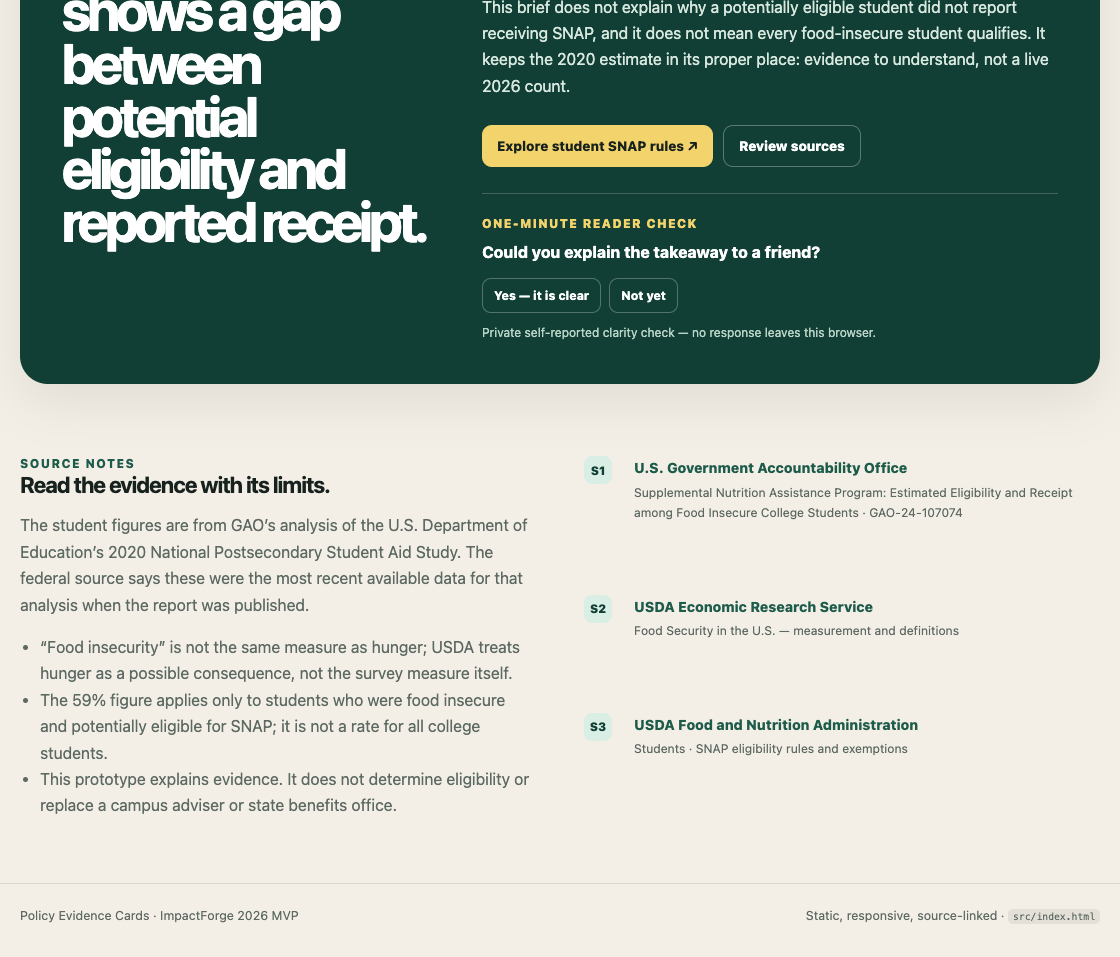
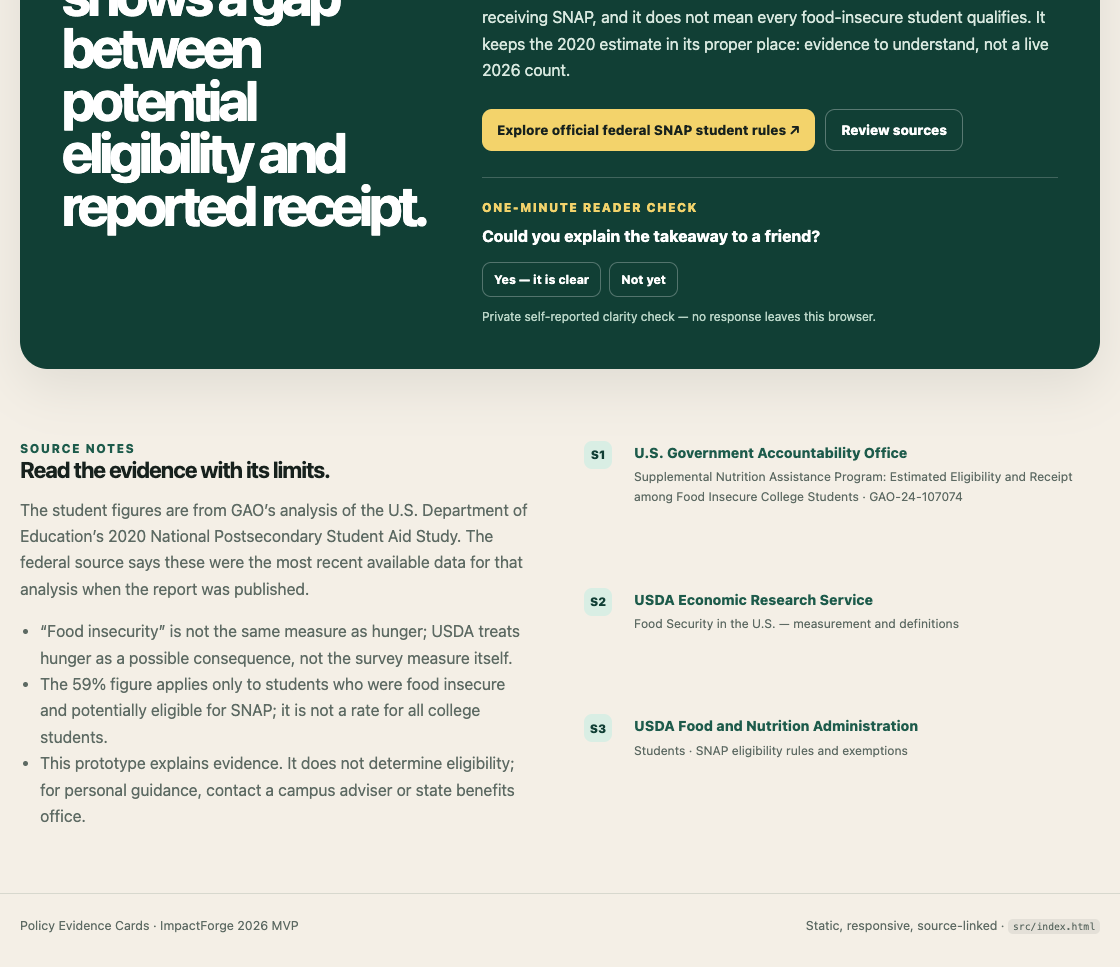
Refine mobile usability and evidence scope

diff --git a/src/index.html b/src/index.html
@@ -38,10 +38,14 @@
     }
     .topbar-inner { display: flex; align-items: center; justify-content: space-between; min-height: 68px; gap: 20px; }
     .brand { display: inline-flex; align-items: center; gap: 10px; font-weight: 800; letter-spacing: -.02em; text-decoration: none; }
+    .brand:focus-visible { outline: 3px solid var(--orange); outline-offset: 4px; border-radius: 12px; }
     .brand-mark { display: grid; place-items: center; width: 30px; height: 30px; border-radius: 9px; background: var(--green); color: white; font-size: .82rem; }
     .topnav { display: flex; gap: 20px; color: var(--muted); font-size: .86rem; }
     .topnav a { text-decoration: none; }
     .topnav a:hover, .topnav a:focus-visible { color: var(--green); }
+    .mobile-jump { display: none; }
+    .mobile-jump a { flex: 1; padding: 8px 10px; border: 1px solid var(--line); border-radius: 10px; color: var(--green); font-size: .75rem; font-weight: 800; text-align: center; text-decoration: none; }
+    .mobile-jump a:focus-visible { outline: 3px solid var(--orange); outline-offset: 3px; }
 
     .hero { padding: 72px 0 52px; display: grid; grid-template-columns: 1.15fr .85fr; align-items: end; gap: 56px; }
     .eyebrow, .kicker { color: var(--green); font-size: .75rem; font-weight: 850; letter-spacing: .12em; text-transform: uppercase; }
@@ -69,7 +73,7 @@
     .evidence-card h3 { max-width: 280px; margin: 50px 0 12px; font-size: 1.55rem; line-height: 1.06; letter-spacing: -.04em; }
     .stat { display: flex; align-items: baseline; gap: 10px; margin: 0 0 12px; color: var(--green); }
     .stat strong { font-size: clamp(3.2rem, 6vw, 5.2rem); line-height: .9; letter-spacing: -.09em; }
-    .stat span { max-width: 120px; color: var(--muted); font-size: .82rem; line-height: 1.2; }
+    .stat span { max-width: 180px; flex: 1; color: var(--muted); font-size: .82rem; line-height: 1.2; }
     .evidence-card .body { max-width: 310px; color: var(--muted); line-height: 1.56; }
     .card-footer { position: relative; z-index: 1; display: block; margin-top: 22px; padding-top: 22px; border-top: 1px solid var(--line); }
     .year { color: var(--muted); font-size: .75rem; }
@@ -116,6 +120,9 @@
     .feedback-button { padding: 9px 11px; border: 1px solid rgba(255,255,255,.28); border-radius: 9px; background: transparent; color: white; font: inherit; font-size: .76rem; font-weight: 750; cursor: pointer; }
     .feedback-button:hover, .feedback-button.is-active { border-color: var(--yellow); background: rgba(243, 211, 107, .14); }
     .feedback-status { min-height: 1.3em; margin: 10px 0 0 !important; color: #b9d5c7 !important; font-size: .75rem; }
+    .feedback-recovery { display: flex; flex-wrap: wrap; gap: 12px; margin: 10px 0 0 !important; }
+    .feedback-recovery a { color: white; font-size: .75rem; font-weight: 800; text-underline-offset: 3px; }
+    [hidden] { display: none !important; }
 
     .notes { display: grid; grid-template-columns: 1fr 1fr; gap: 48px; padding: 72px 0 64px; }
     .notes h2 { margin-bottom: 14px; font-size: 1.4rem; letter-spacing: -.04em; }
@@ -145,6 +152,7 @@
     @media (max-width: 560px) {
       .wrap { width: min(100% - 28px, 1120px); }
       .topnav { display: none; }
+      .mobile-jump { display: flex; gap: 8px; padding-top: 10px; padding-bottom: 12px; }
       h1 { font-size: clamp(3.2rem, 18vw, 5.8rem); }
       .hero { padding: 42px 0 38px; }
       .section-head { display: block; }
@@ -174,6 +182,10 @@
         <a href="#sources">Sources</a>
       </nav>
     </div>
+    <nav class="mobile-jump wrap" aria-label="Mobile quick links">
+      <a href="#next-step">Get help</a>
+      <a href="#sources">Sources</a>
+    </nav>
   </header>
 
   <main id="top" class="wrap">
@@ -221,7 +233,7 @@
         <article class="evidence-card" id="evidence-gap" data-card-id="03" data-label="Policy gap" data-metric="59%" data-supporting-value="did not report receiving SNAP" data-year="2020" data-source-id="S1" data-policy-source-id="S3" data-claim="Of food-insecure students who were potentially eligible for SNAP, 59 percent did not report receiving benefits.">
           <div class="card-top"><span class="card-number">03 / POLICY GAP</span><span class="card-type">What can help?</span></div>
           <h3>Potential eligibility is not reported receipt.</h3>
-          <div class="stat"><strong>59%</strong><span>did not report receiving SNAP</span></div>
+          <div class="stat"><strong>59%</strong><span>of food-insecure students potentially eligible for SNAP did not report receiving benefits</span></div>
           <p class="body">Among potentially SNAP-eligible food-insecure students, 59% did not report receiving benefits. USDA lists student exemptions such as 20 hours of paid work or work-study.</p>
           <div class="card-footer"><span class="year">U.S. · 2020 data</span><div class="card-sources"><a class="card-link" href="https://www.gao.gov/products/gao-24-107074" target="_blank" rel="noreferrer">Read GAO</a><a class="card-link" href="https://www.fna.usda.gov/snap/students" target="_blank" rel="noreferrer">Check USDA rules</a></div></div>
         </article>
@@ -263,7 +275,7 @@
         <p class="takeaway-lead">The next question is practical: how can a student check the current rules and find a trustworthy next step?</p>
         <p>This brief does not explain why a potentially eligible student did not report receiving SNAP, and it does not mean every food-insecure student qualifies. It keeps the 2020 estimate in its proper place: evidence to understand, not a live 2026 count.</p>
         <div class="takeaway-actions">
-          <a class="button button-primary" href="https://www.fna.usda.gov/snap/students" target="_blank" rel="noreferrer">Explore student SNAP rules ↗</a>
+          <a class="button button-primary" href="https://www.fna.usda.gov/snap/students" target="_blank" rel="noreferrer">Explore official federal SNAP student rules ↗</a>
           <a class="button button-secondary" href="#sources">Review sources</a>
         </div>
         <div class="reader-check" aria-labelledby="reader-check-title">
@@ -274,6 +286,7 @@
             <button class="feedback-button" type="button" data-feedback="unclear" aria-pressed="false">Not yet</button>
           </div>
           <p id="feedback-status" class="feedback-status" role="status">Private self-reported clarity check — no response leaves this browser.</p>
+          <p id="feedback-recovery" class="feedback-recovery" hidden><a href="#evidence-severity">Review the definition</a><a href="#sources">Open the sources</a></p>
         </div>
       </div>
     </section>
@@ -286,7 +299,7 @@
         <ul>
           <li>“Food insecurity” is not the same measure as hunger; USDA treats hunger as a possible consequence, not the survey measure itself.</li>
           <li>The 59% figure applies only to students who were food insecure and potentially eligible for SNAP; it is not a rate for all college students.</li>
-          <li>This prototype explains evidence. It does not determine eligibility or replace a campus adviser or state benefits office.</li>
+          <li>This prototype explains evidence. It does not determine eligibility; for personal guidance, contact a campus adviser or state benefits office.</li>
         </ul>
       </div>
       <div class="source-list" aria-label="Linked sources">
@@ -329,9 +342,9 @@
       },
       help: {
         label: 'Start with the official rules',
-        copy: 'Check the current USDA student exemptions. The card is a signpost, not an eligibility decision.',
+        copy: 'Check the current official federal SNAP student rules and exemptions. The card is a signpost, not an eligibility decision. For personal guidance, contact a campus adviser or state benefits office.',
         href: 'https://www.fna.usda.gov/snap/students',
-        link: 'Open USDA student rules ↗',
+        link: 'Open official federal SNAP student rules ↗',
         external: true
       }
     };
@@ -362,6 +375,7 @@
 
     const feedbackButtons = document.querySelectorAll('[data-feedback]');
     const feedbackStatus = document.querySelector('#feedback-status');
+    const feedbackRecovery = document.querySelector('#feedback-recovery');
     feedbackButtons.forEach((button) => button.addEventListener('click', () => {
       feedbackButtons.forEach((item) => {
         const active = item === button;
@@ -371,6 +385,7 @@
       feedbackStatus.textContent = button.dataset.feedback === 'clear'
         ? 'That is the intended outcome: a clear takeaway with an honest caveat.'
         : 'That is useful feedback: revisit the cards or open the original sources.';
+      feedbackRecovery.hidden = button.dataset.feedback !== 'unclear';
     }));
   </script>
 </body>

diff --git a/submission/check_browser.py b/submission/check_browser.py
@@ -40,16 +40,26 @@ def exercise_page(page) -> None:
     help_link = page.locator("#action-link")
     assert help_link.get_attribute("href") == "https://www.fna.usda.gov/snap/students"
     assert help_link.get_attribute("target") == "_blank"
+    assert_text(page, "#action-copy", "Check the current official federal SNAP student rules and exemptions. The card is a signpost, not an eligibility decision. For personal guidance, contact a campus adviser or state benefits office.")
+    assert_text(page, "#action-link", "Open official federal SNAP student rules ↗")
 
     clear = page.locator('[data-feedback="clear"]')
     clear.click()
     assert clear.get_attribute("aria-pressed") == "true"
     assert_text(page, "#feedback-status", "That is the intended outcome: a clear takeaway with an honest caveat.")
+    assert page.locator("#feedback-recovery").get_attribute("hidden") is not None
 
     not_yet = page.locator('[data-feedback="unclear"]')
     not_yet.click()
     assert not_yet.get_attribute("aria-pressed") == "true"
     assert_text(page, "#feedback-status", "That is useful feedback: revisit the cards or open the original sources.")
+    assert page.locator("#feedback-recovery").is_visible()
+    assert page.locator('#feedback-recovery a[href="#sources"]').count() == 1
+
+    if page.viewport_size["width"] <= 560:
+        assert page.locator(".mobile-jump").is_visible()
+    else:
+        assert page.locator(".mobile-jump").is_hidden()
 
 
 def main() -> None:

diff --git a/submission/check_mvp.py b/submission/check_mvp.py
@@ -136,6 +136,8 @@ def main() -> None:
     assert 'data-choice="definition"' in page
     assert 'data-choice="help"' in page
     assert "self-reported clarity" in page
+    assert 'id="feedback-recovery"' in page
+    assert "official federal SNAP student rules" in page
     assert "That is the intended outcome" in page
     assert "That is useful feedback" in page
     assert "Potential eligibility is not reported receipt." in page

diff --git a/submission/SYNTHETIC_USER_TEST.md b/submission/SYNTHETIC_USER_TEST.md
@@ -1,0 +1,17 @@
+# Synthetic usability preflight
+
+Date: 2026-08-16
+
+This is a read-only, five-persona simulation performed by a subagent. It is not a study with real students and must not be reported as real-user evidence.
+
+## Personas and outcomes
+
+- Hurried first-year student on 320px mobile: found the topic, 59% scope, USDA rules, next-step chooser, and reader check, but required a long scroll.
+- Student journalist on 320px mobile: found GAO and USDA sources and correctly scoped 59%; the original visual hierarchy made the denominator easy to miss during a fast scan.
+- Campus adviser on desktop: found the official USDA rules; the page now also states that personal guidance belongs with a campus adviser or state benefits office.
+- Skeptical student checking 59%: could verify the limitation; the denominator is now placed directly beside the percentage.
+- Low-confidence reader: understood the sequential choices; “Not yet” now reveals direct definition and source links for recovery.
+
+## Result
+
+The simulation led to a denominator clarification, mobile quick links, an actionable “Not yet” response, clearer federal-rules wording, and explicit brand focus styling. These changes improve the prototype but do not complete the required real-student test.

diff --git a/submission/DELIVERY.md b/submission/DELIVERY.md
@@ -21,6 +21,7 @@
 - [x] Dependency-free acceptance check
 - [x] Local acceptance and Chromium smoke tests completed
 - [x] Internal requirements matrix completed
+- [x] Five-persona synthetic usability evaluation completed; it is not real-student evidence
 
 ## Official proof-of-work minimum
 
@@ -41,11 +42,12 @@ ImpactForge requires at least one screenshot, demo video, or file showing the pr
 8. `DEVPOST.md` content to copy into the submission form
 9. `IMPACT_STATEMENT.md` content to copy into the impact field
 10. `AUDIT_MATRIX.md` for internal handoff only
+11. `SYNTHETIC_USER_TEST.md` for internal usability preflight only
 
 ## Optional external additions
 
 - [ ] Add a public project link (officially optional but encouraged)
-- [ ] Run the five-minute reader test with real students (not required; may strengthen impact and UX evidence)
+- [ ] Run the five-minute reader test with real students (the synthetic evaluation cannot substitute for real-student evidence)
 - [ ] Record a 60–90 second demo video (optional proof format; a current screenshot already meets the proof minimum)
 
 ## Final human checks
